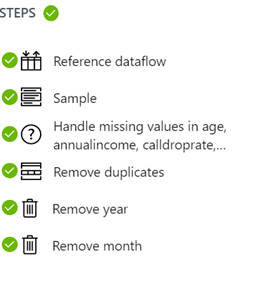
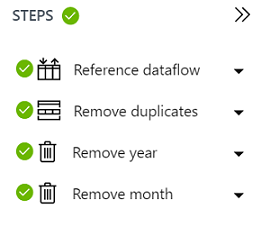
added telemetry, logging and removed docker lab

diff --git a/CATelcoCustomerChurnModeling.py b/CATelcoCustomerChurnModeling.py
@@ -17,6 +17,7 @@ from azureml.logging import get_azureml_logger
 
 # initialize the logger
 run_logger = get_azureml_logger() 
+run_logger.log('amlrealworld.ChurnPrediction.CATelcoCustomerChurnModeling','true')
 
 with Package.open_package('CATelcoCustomerChurnTrainingSample.dprep') as pkg:
     df = pkg.dataflows[0].get_dataframe()
@@ -30,8 +31,6 @@ for column_to_encode in columns_to_encode:
     dummies.columns = one_hot_col_names
     df = df.drop(column_to_encode, axis=1)
     df = df.join(dummies)
-
-print(df.columns)
 
 model = GaussianNB()
 

diff --git a/CATelcoCustomerChurnModelingWithoutDprep.py b/CATelcoCustomerChurnModelingWithoutDprep.py
@@ -14,6 +14,7 @@ from azureml.logging import get_azureml_logger
 
 # initialize the logger
 run_logger = get_azureml_logger() 
+run_logger.log('amlrealworld.ChurnPrediction.CATelcoCustomerChurnModelingWithoutDprep','true') 
 
 # Perform Data Preparation
 df = pd.read_csv('data/CATelcoCustomerChurnTrainingSample.csv')

diff --git a/docs/DataPreparation.md b/docs/DataPreparation.md
@@ -10,11 +10,11 @@ The dataset used to ingest is from SIDKDD 2009 competition. The dataset consists
 
 2.1. Begin the lab by creating a New Project by selecting the plus sign from Recent Projects.
 
-![NewProject](https://github.com/Azure/MachineLearningSamples-ChurnPrediction/blob/master/docs/Images/NewProject.png)
+![NewProject](Images/NewProject.png)
 
 2.2. Provide a project name, project directory and select a blank project template as next steps. For the project directory, create a new directory for churn analytics and copy the path to project directory in the wizard.
 
-![ProjectName](https://github.com/Azure/MachineLearningSamples-ChurnPrediction/blob/master/docs/Images/ProjectName.png)
+![ProjectName](Images/ProjectName.png)
 
 ## 3. Data Source
 
@@ -24,47 +24,43 @@ PROSE is a framework of technologies for programming by examples – automatic g
 
 3.1. Select Data Sources and click the + sign to add Data Source.
 
-![AddDataSource](https://github.com/Azure/MachineLearningSamples-ChurnPrediction/blob/master/docs/Images/AddDataSource.png)
+![AddDataSource](Images/AddDataSource.png)
 
 3.2. In the Add Data Source wizard, select File and provide the path of the local file CATelcoCustomerChurnTrainingSample.csv. This file is in the data folder.
 
-![LocalFile](https://github.com/Azure/MachineLearningSamples-ChurnPrediction/blob/master/docs/Images/LocalFile.png)
+![LocalFile](Images/LocalFile.png)
 
-![FindFile](https://github.com/Azure/MachineLearningSamples-ChurnPrediction/blob/master/docs/Images/FindFiles.png)
+![FindFile](Images/FindFiles.png)
 
 3.3. In the File Details part of Add Data Source wizard, leave all the default options as is. You will be able to preview the data import:
 
-![FileDetails](https://github.com/Azure/MachineLearningSamples-ChurnPrediction/blob/master/docs/Images/FileDetails.png)
+![FileDetails](Images/FileDetails.png)
 
 3.4. In the Data Types part of Add Data Source wizard, notice how all the numeric fields are shown with the Type: Number. If no type is specified, string is assumed. Hence, you do not need to add the type for all the categorical features.
 
-![DataTypes](https://github.com/Azure/MachineLearningSamples-ChurnPrediction/blob/master/docs/Images/DataTypes.png)
+![DataTypes](Images/DataTypes.png)
 
 3.5. In the Sampling part of Add Data Source wizard, select sample: “Full File” and leave all other options default. AMLWorkbench allows users to have multiple samples per data source. The Active indicator lets the user choose which sample to use when displaying the data source.
 
-![PathColumnHandling](https://github.com/Azure/MachineLearningSamples-ChurnPrediction/blob/master/docs/Images/PathColumnHandling.png)
+![PathColumnHandling](Images/PathColumnHandling.png)
 
 3.6. Once the data source is created, select Prepare and create a .dprep (a data preparation package). Name the .dprep file CATelcoCustomerChurnTrainingSample.dprep. Double click the .dprep file to open it to perform data cleansing.
 
 ## 4. Data Cleansing
 
-4.1. The concept of missing values is important to understand in order to successfully manage data.  If the missing values are not handled properly, the predictive models can be inaccurate. Handling missing values with AMLWorkbench is simple. In this lab, we will replace the missing values with 0. Select the full dataset and then Transforms->Handle Missing Values to replace all missing values with 0.
+4.1. Select the full dataset and then Transforms->Remove Duplicates to eliminate duplicate copies of repeating data.
 
-![HandleMissingValues](https://github.com/Azure/MachineLearningSamples-ChurnPrediction/blob/master/docs/Images/HandleMissingValues.png)
+![RemoveDuplicates](Images/RemoveDuplicates.png)
 
-![ColumnMetrics](https://github.com/Azure/MachineLearningSamples-ChurnPrediction/blob/master/docs/Images/ColumnMetrics.png)
+4.2. We can get rid of year and month fields from our dataset as they intuitively do not make sense to include in our dataset. Select the year column first and then Transforms->Remove Column. Similarly, remove the month column.
 
-4.2. Select the full dataset and then Transforms->Remove Duplicates to eliminate duplicate copies of repeating data.
+![RemoveColumn](Images/RemoveColumn.png)
 
-![RemoveDuplicates](https://github.com/Azure/MachineLearningSamples-ChurnPrediction/blob/master/docs/Images/RemoveDuplicates.png)
+4.3. ***Optional:*** The concept of missing values is important to understand in order to successfully manage data. If the missing values are not handled properly, the predictive models can be inaccurate. Handling missing values with AMLWorkbench is simple. Missing values are very specific to each field as the field types can be different. By selecting the full dataset and then Transforms -> Replace Missing Values, you will be able to replace missing values for each field.
 
-4.3. We can get rid of year and month fields from our dataset as they intuitively do not make sense to include in our dataset. Select the year column first and then Transforms->Remove Column. Similarly, remove the month column.
+4.4. After following all the above steps, the summary steps should look like the below image. Note that in the Replace missing values step, all the column names are displayed as we want this to apply on the full dataset. Additionally, a .dprep file would be created which can be used to create a data frame (details in next lab).
 
-![RemoveColumn](https://github.com/Azure/MachineLearningSamples-ChurnPrediction/blob/master/docs/Images/RemoveColumn.png)
-
-4.4. After following all the above steps, the summary steps should look as follows. Note that in the Replace missing values step, all the column names are displayed as we want this to apply on the full dataset. Additionally, a .dprep file would be created which can be used to create a data frame (details in next lab).
-
-![Steps](https://github.com/Azure/MachineLearningSamples-ChurnPrediction/blob/master/docs/Images/Steps.png)
+![Steps](Images/Steps.png)
 
 
 [Go to next hands-on lab](https://github.com/Azure/MachineLearningSamples-ChurnPrediction/blob/master/docs/ModelingAndEvaluation.md)

diff --git a/Readme.md b/Readme.md
@@ -23,22 +23,21 @@ The aim of this solution is to demonstrate predictive churn analytics using AMLW
 3. Integrate third-party libraries (such as scikit-learn and azureml) to develop bayesian and tree based classifiers for predicting          churn.
 4. Perform operationalization.
 
-
 ## Key components needed to run this example
 
 1. An [Azure account](https://azure.microsoft.com/free/) (free trials are available).
 2. An installed copy of Azure Machine Learning Workbench with a workspace created.
 3. This example could be run on any compute context.
 
+## Data / Telemetry
+
+Churn Prediction collects usage data and sends it to Microsoft to help improve our products and services. Read our [privacy statement](https://privacy.microsoft.com/en-us/privacystatement) to learn more.
+
 ## Contributing
 
-This project welcomes contributions and suggestions.  Most contributions require you to agree to a
-Contributor License Agreement (CLA) declaring that you have the right to, and actually do, grant us
-the rights to use your contribution. For details, visit https://cla.microsoft.com.
+This project welcomes contributions and suggestions. Most contributions require you to agree to a Contributor License Agreement (CLA) declaring that you have the right to, and actually do, grant us the rights to use your contribution. For details, visit https://cla.microsoft.com.
 
-When you submit a pull request, a CLA-bot will automatically determine whether you need to provide
-a CLA and decorate the PR appropriately (for example, label, comment). Simply follow the instructions
-provided by the bot. You will only need to do this once across all repos using our CLA.
+When you submit a pull request, a CLA-bot will automatically determine whether you need to provide a CLA and decorate the PR appropriately (for example, label, comment). Simply follow the instructions provided by the bot. You will only need to do this once across all repos using our CLA.
 
 This project has adopted the [Microsoft Open Source Code of Conduct](https://opensource.microsoft.com/codeofconduct/).
 For more information, see the [Code of Conduct FAQ](https://opensource.microsoft.com/codeofconduct/faq/) or

diff --git a/docs/ModelingAndEvaluationWithoutDprep.md b/docs/ModelingAndEvaluationWithoutDprep.md
@@ -1,0 +1,35 @@
+# Churn Prediction using AMLWorkbench - Modeling and Evaluation without .dprep
+
+## 1. Objectives
+
+The aim of this lab is to generate churn classifiers without using .dprep. We will reproduce the steps related to data preparation using pandas for flexibility.
+
+## 2. Data Preparation
+
+The csv file can be read using pandas into a dataframe df. The data preparation tasks such as filling in missing values, dropping columns, and removing duplicates can be performed using `fillna()`, `drop()` and `drop_duplicates()` functions from pandas:
+
+```
+df = pd.read_csv('data/CATelcoCustomerChurnTrainingSample.csv')
+df = df.fillna(0)
+df = df.drop_duplicates()
+df = df.drop('year', 1)
+df = df.drop('month', 1)
+```
+
+The rest of the code related to one-hot encoding, splitting the data, and modeling is pretty much the same as in the previous lab. Ensure that the `CATelcoCustomerChurnTrainingSample.csv` is in the data folder.
+
+## 3. Execution – Local/Docker Container
+
+To run locally, run the below command:
+
+```
+az ml experiment submit -c local CATelcoCustomerChurnModelingWithoutDprep.py
+```
+
+If you have a Docker engine running locally, in the CLI window, run the below command:
+
+```
+az ml experiment submit -c docker CATelcoCustomerChurnModelingWithoutDprep.py
+```
+
+[Go to next hands-on lab](https://github.com/Azure/MachineLearningSamples-ChurnPrediction/blob/master/docs/Operationalization.md)

diff --git a/docs/ModelingAndEvaluation.md b/docs/ModelingAndEvaluation.md
@@ -125,4 +125,16 @@ When you executed the CATelcoCustomerChurnModeling.py script using the az ml exe
 
 Download the model file model.pkl and save it to the root of your project folder. You need it in the later steps.
 
-[Go to next hands-on lab](https://github.com/Azure/MachineLearningSamples-ChurnPrediction/blob/master/docs/ModelingAndEvaluationDocker.md)
+## 8. Execution – Local Docker Container
+
+If you have a Docker engine running locally, in the CLI window, run the below command. Note the change the run configuration from local to docker. PrepareEnvironment must be set to true in aml_config/docker.runconfig before you can submit.
+
+```
+az ml experiment submit -c docker CATelcoCustomerChurnModeling.py
+```
+
+This command pulls down a base docker image, layers a conda environment on the base image based on the `conda_dependencies.yml` file in the project's _aml_config_ directory, and then starts a Docker container.
+
+The results will be very, very similar to the results that you got when you ran the results locally.
+
+[Go to next hands-on lab](https://github.com/Azure/MachineLearningSamples-ChurnPrediction/blob/master/docs/ModelingAndEvaluationWithoutDprep.md)
